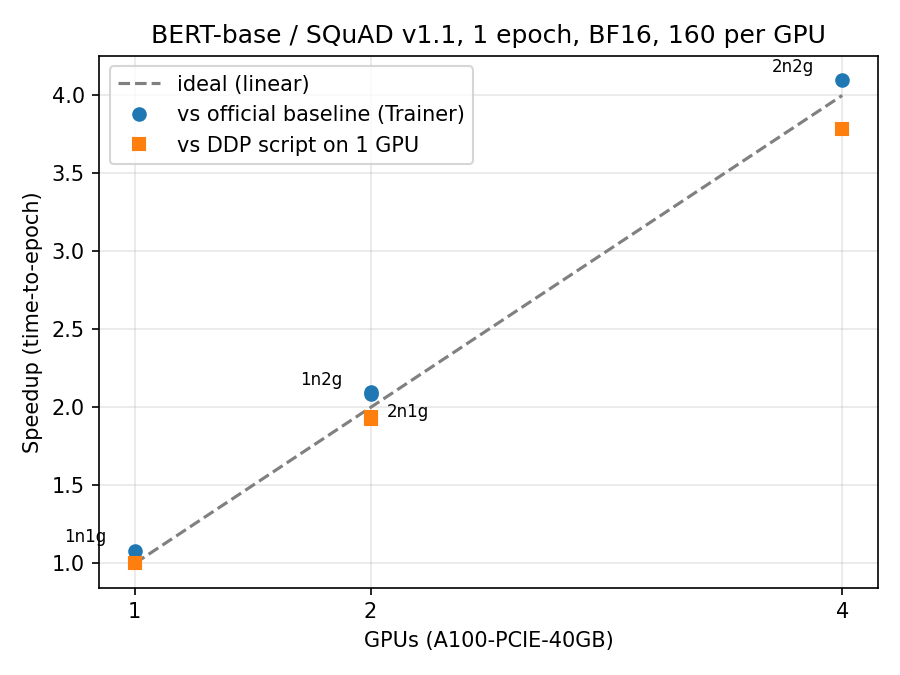
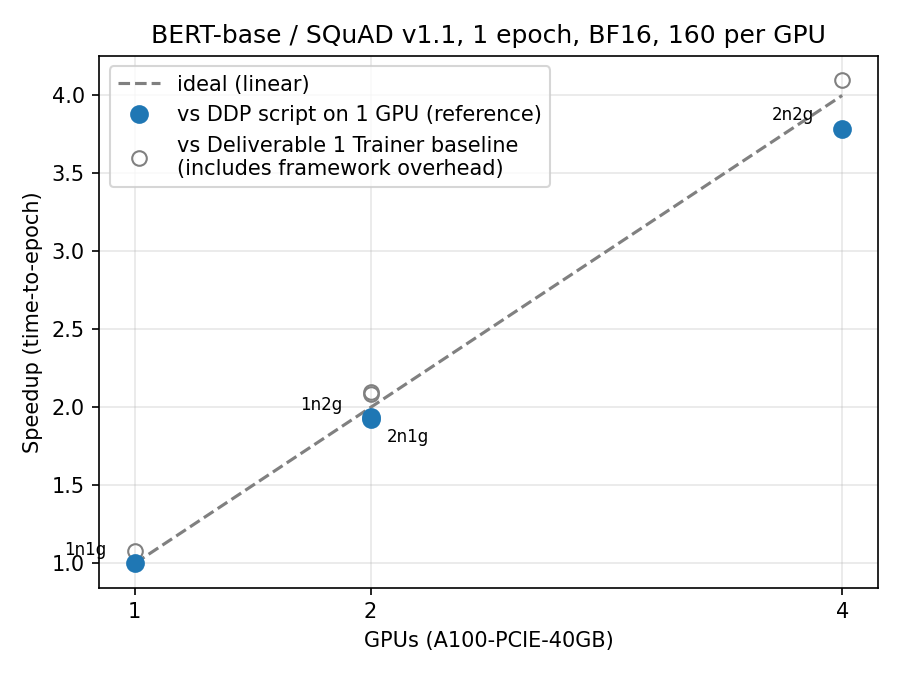
DISTRIBUTED: clarify the efficiency gap and plot the 1-GPU DDP reference
- README.md: the remaining 5% is about two thirds exposed all-reduce
  tail and one third fixed per-step costs; the 89.6% Trainer GPU
  utilisation is attributed to the Deliverable 1 profiling run
- summarize_results.py: the scaling plot shows the speedup vs the DDP
  script on 1 GPU as the main series and the Trainer baseline as hollow
  grey markers (includes framework overhead)
- results/scaling.png regenerated

diff --git a/DISTRIBUTED/summarize_results.py b/DISTRIBUTED/summarize_results.py
@@ -167,13 +167,18 @@ def plot(rows, path):
     gpus = [r["world_size"] for r in rows]
     top = max(gpus)
     ax.plot([1, top], [1, top], "--", color="grey", label="ideal (linear)")
-    ax.plot(gpus, [r["speedup_vs_baseline"] for r in rows], "o", label="vs official baseline (Trainer)")
-    if all(r["speedup_vs_ddp_1gpu"] for r in rows):
-        ax.plot(gpus, [r["speedup_vs_ddp_1gpu"] for r in rows], "s", label="vs DDP script on 1 GPU")
+    # Main series: the DDP script on 1 GPU is the reference (same code, only the GPU count changes)
+    ref_key = "speedup_vs_ddp_1gpu" if all(r["speedup_vs_ddp_1gpu"] for r in rows) else "speedup_vs_baseline"
+    if ref_key == "speedup_vs_ddp_1gpu":
+        ax.plot(gpus, [r[ref_key] for r in rows], "o", color="#1f77b4", markersize=8,
+                label="vs DDP script on 1 GPU (reference)", zorder=3)
+    ax.plot(gpus, [r["speedup_vs_baseline"] for r in rows], "o", markersize=7, markerfacecolor="none",
+            markeredgecolor="grey", linestyle="none",
+            label="vs Deliverable 1 Trainer baseline\n(includes framework overhead)", zorder=2)
     seen = {}
     for r in rows:  # 1n2g and 2n1g share x = 2: put their labels on opposite sides
         k = seen[r["world_size"]] = seen.get(r["world_size"], -1) + 1
-        ax.annotate(r["config"], (r["world_size"], r["speedup_vs_baseline"]),
+        ax.annotate(r["config"], (r["world_size"], r[ref_key]),
                     textcoords="offset points", xytext=(8, -12) if k % 2 else (-34, 4), fontsize=8)
     ax.set_xlabel("GPUs (A100-PCIE-40GB)")
     ax.set_ylabel("Speedup (time-to-epoch)")

diff --git a/DISTRIBUTED/README.md b/DISTRIBUTED/README.md
@@ -13,7 +13,7 @@
 
 This deliverable distributes the single-GPU BERT/SQuAD fine-tuning of Deliverable 1 over **2 FinisTerrae III nodes with 2 A100 GPUs each**, using native PyTorch **DistributedDataParallel (DDP)** with the NCCL backend. Model, preprocessing, BF16 precision, per-GPU batch size (160), optimizer settings, seed and the timed region are the same as in the baseline; only the number of GPUs changes.
 
-On 4 GPUs one SQuAD epoch takes **57.24 s ± 0.63 s** (3 runs, CV 1.10%). Against the same training script on one GPU (216.73 s) this is a **3.79× speedup, 94.7% parallel efficiency**; against the official Hugging Face Trainer baseline (234.58 s) it is 4.10×. The remaining 5% is almost entirely the gradient all-reduce that DDP cannot overlap with the backward pass: a **≈15 ms exposed tail per step** while the last gradient buckets, including the word-embedding gradient, cross the InfiniBand link.
+On 4 GPUs one SQuAD epoch takes **57.24 s ± 0.63 s** (3 runs, CV 1.10%). Against the same training script on one GPU (216.73 s) this is a **3.79× speedup, 94.7% parallel efficiency**; against the official Hugging Face Trainer baseline (234.58 s) it is 4.10×. The remaining 5% is mostly (about two thirds) the exposed all-reduce tail, a **≈15 ms wait per step** while the last gradient buckets, including the word-embedding gradient, cross the InfiniBand link; the rest is fixed per-step costs.
 
 > **Result:** 2 × 2 A100 · BF16 · 160 per GPU (global 640) · 1 epoch · **57.24 s** · **3.79×** vs DDP on 1 GPU · **94.7%** efficiency
 
@@ -147,7 +147,7 @@ All 12 runs completed the full epoch (554 / 277 / 277 / 139 optimizer steps per 
 
 ### 7.1 GPU utilisation
 
-Mean utilisation over active samples stays at **98–99.7%** in every configuration (baseline Trainer run: 89.6%). Adding GPUs does not starve them: the ranks spend almost all their time computing.
+Mean utilisation over active samples stays at **98–99.7%** in every configuration, against 89.6% for the Trainer baseline in the Deliverable 1 profiling run ([`BASELINE/README.md`](../BASELINE/README.md), §7). Adding GPUs does not starve them: the ranks spend almost all their time computing.
 
 ### 7.2 NCCL transport
 
@@ -227,7 +227,7 @@ The exposed cost on 4 GPUs is T(4) − T(1)/4 = 57.24 − 54.18 = **3.06 s, or 2
 
 ### 8.3 The DDP script is faster than the Trainer baseline on one GPU
 
-With an identical workload (88,492 features, 554 steps, BF16, batch 160, same optimizer settings) the DDP script on one GPU takes **216.73 s, against 234.58 s for the Trainer: the Trainer is ≈ 8% slower**. GPU utilisation shows where the difference comes from: **89.6%** for the Trainer against **99.7%** for the explicit loop.
+With an identical workload (88,492 features, 554 steps, BF16, batch 160, same optimizer settings) the DDP script on one GPU takes **216.73 s, against 234.58 s for the Trainer: the Trainer is ≈ 8% slower**. GPU utilisation shows where the difference comes from: **89.6%** for the Trainer (Deliverable 1 profiling run, [`BASELINE/README.md`](../BASELINE/README.md) §7) against **99.7%** for the explicit loop (mean of the three `1n1g` runs).
 
 - **Likely cause:** per-step host-side work in the Trainer (callbacks, logging bookkeeping, a loss NaN/Inf check that forces a GPU synchronisation every step) leaves the GPU idle between steps. The explicit loop only synchronises every 50 steps.
 - **Consequence:** speedups against the Trainer (up to 4.10×, efficiencies above 100%) mix the effect of distribution with this framework overhead. That is why all efficiencies in this report use the DDP script on one GPU as the reference.
